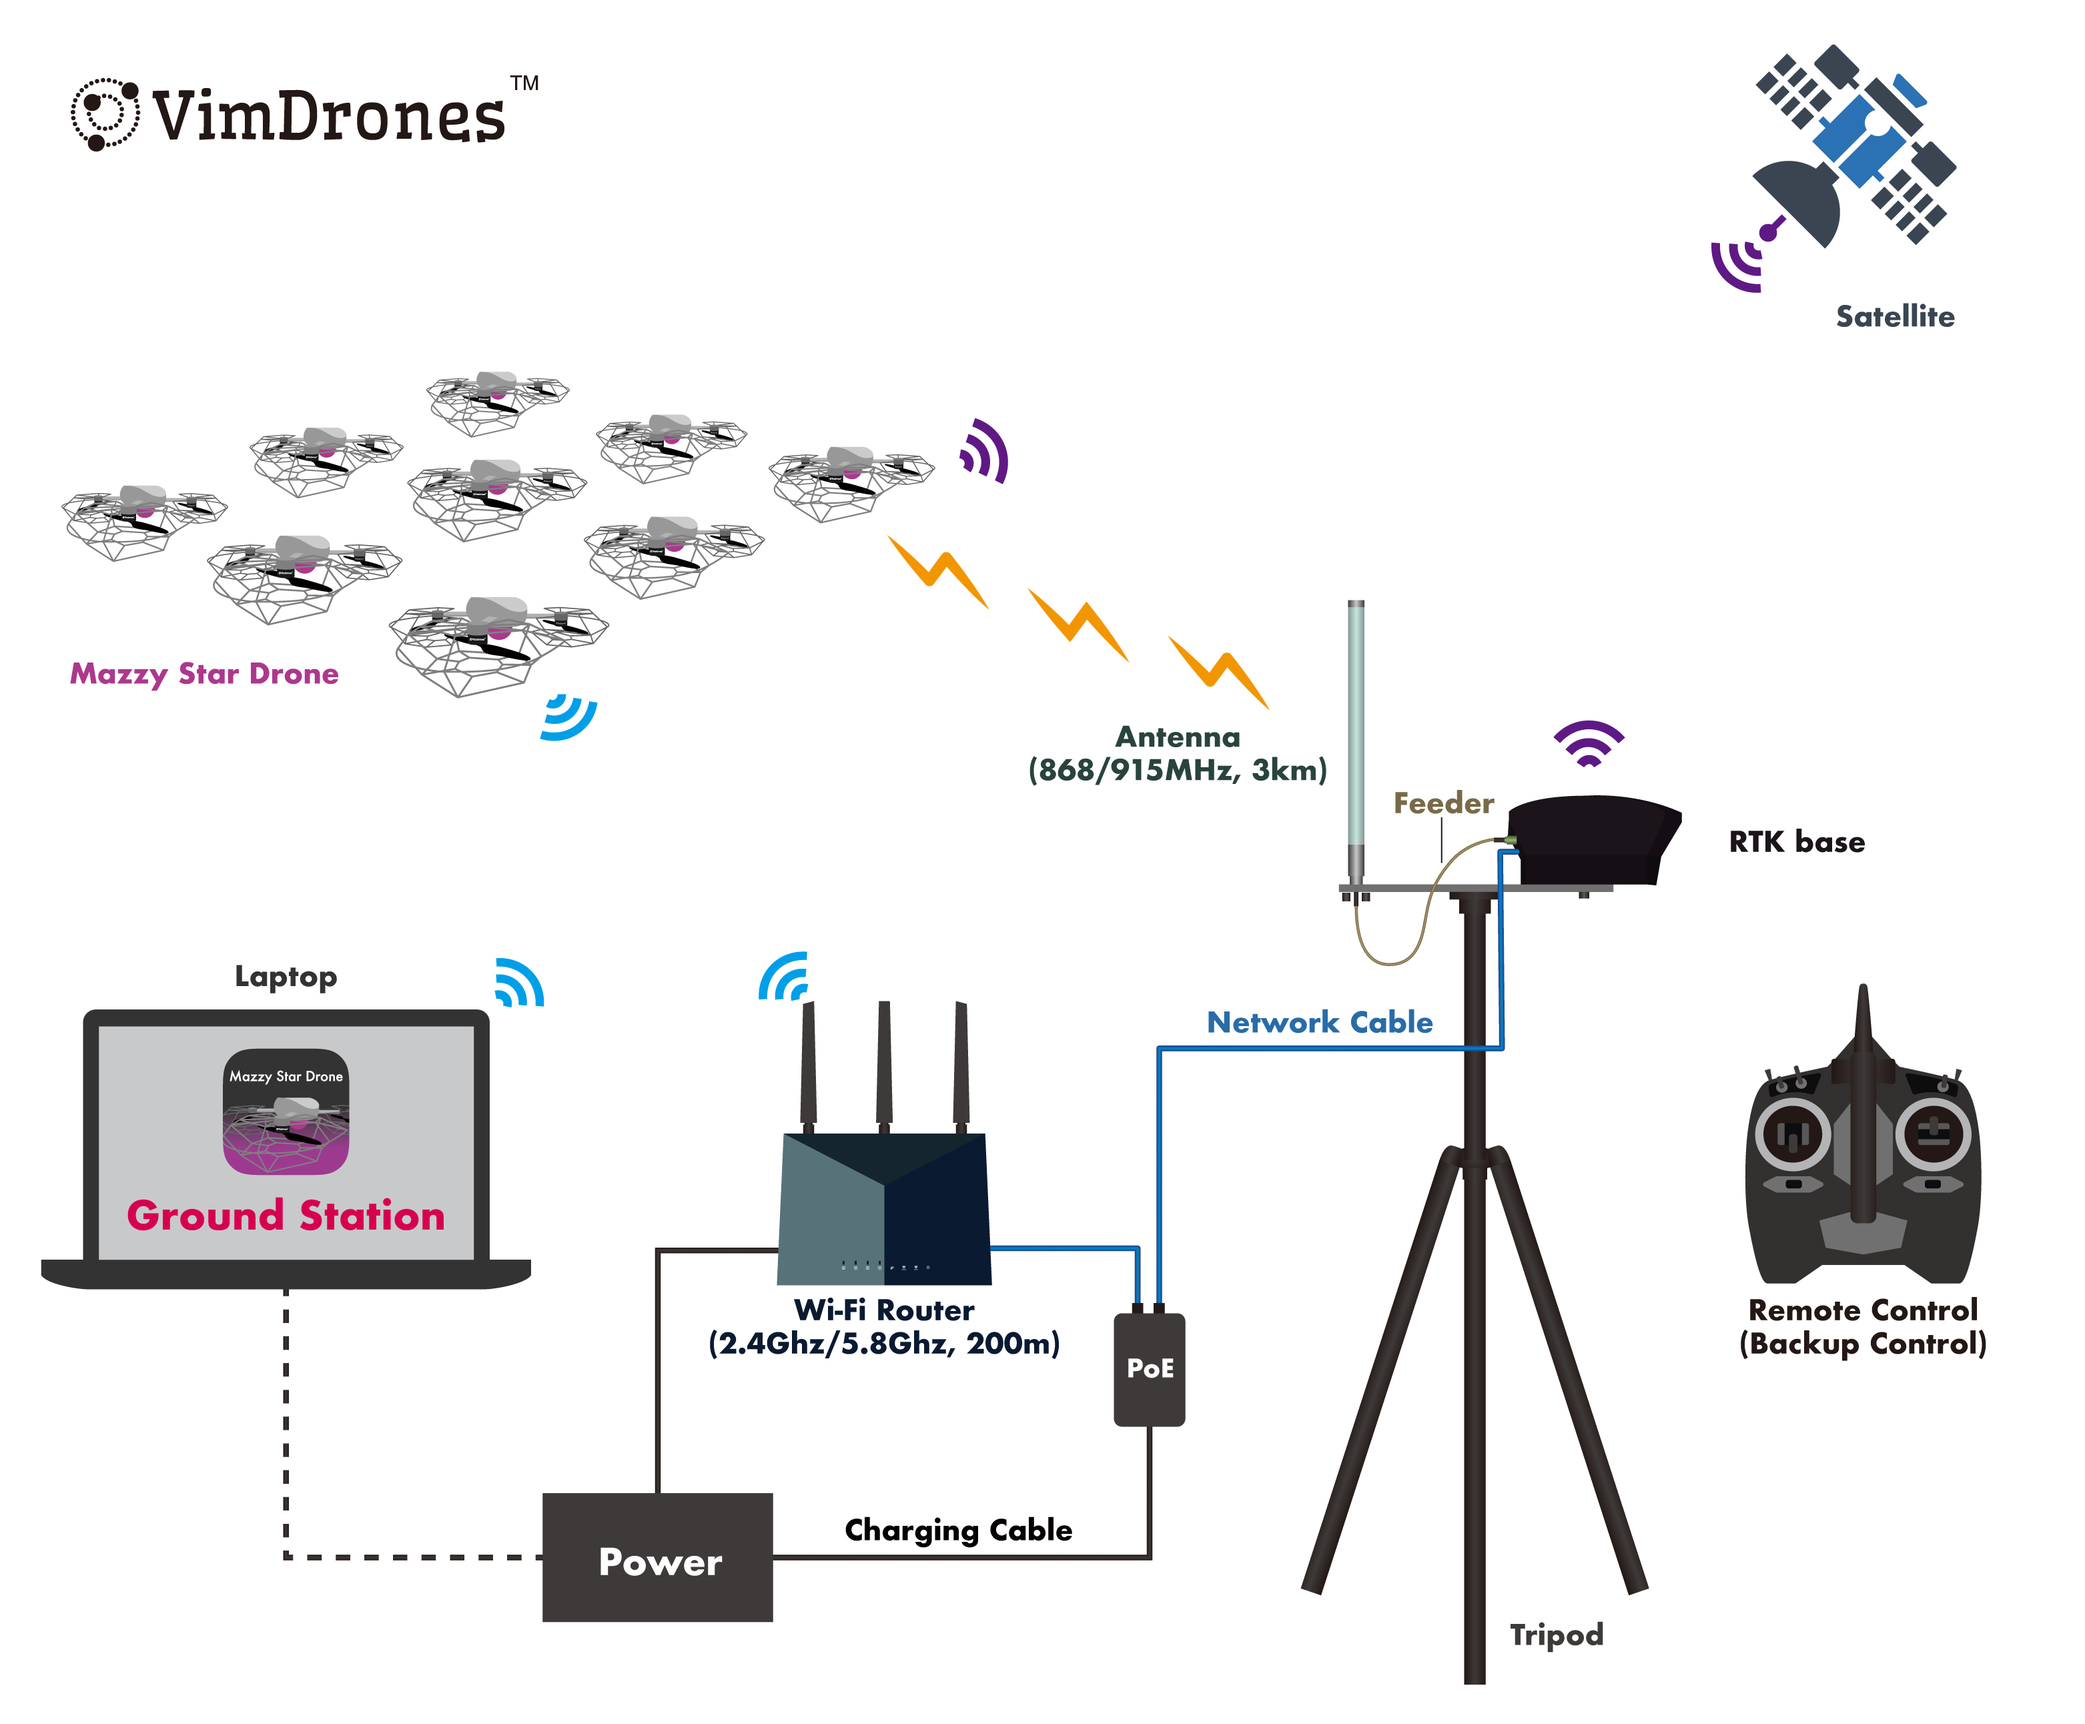
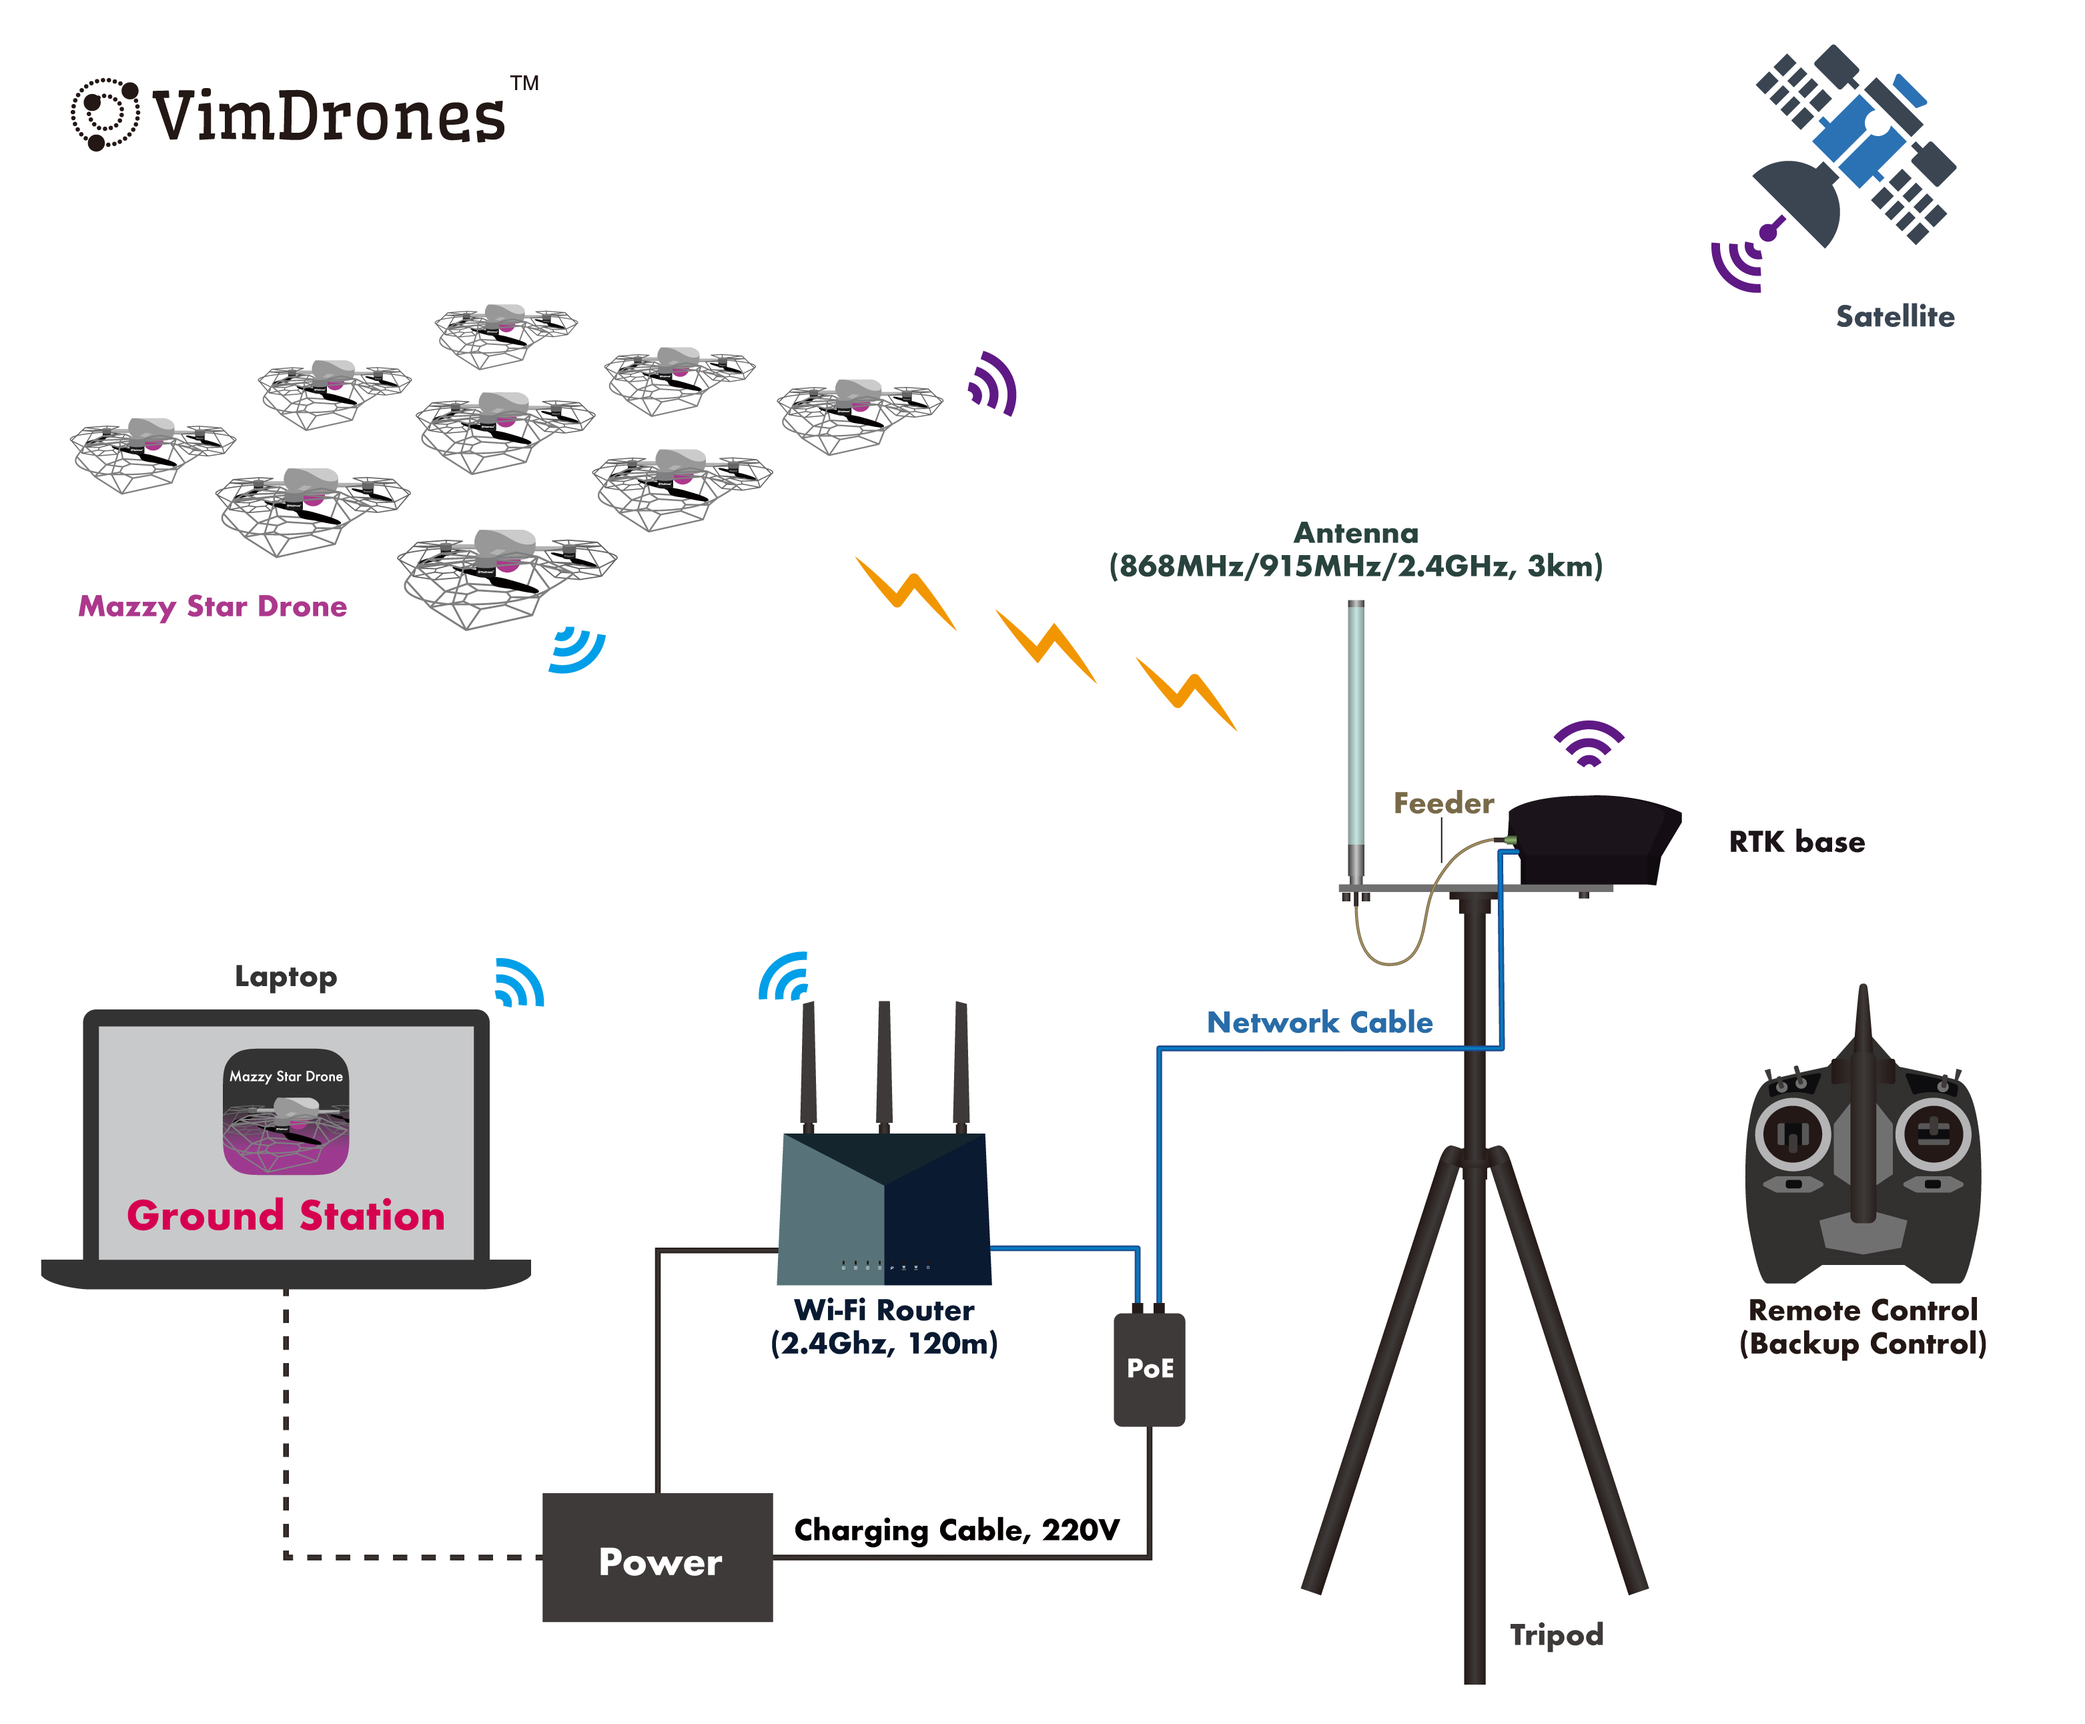
uptade

diff --git a/docs/setup.md b/docs/setup.md
@@ -3,6 +3,12 @@
 Mazzy Star Drone is designed for drone light show, featuring a full-colour RGB LED, intelligent flight mode and high precision positioning system. It equips with RTK GPS positioning system and multiple control channels communication system to ensure a stable and safe formation flight.
 Mazzy Star Drone has full size propeller guard and only 0.46kg armed weight. The maximum time hover time is up to 18 minutes. For the revolutionary design, Mazzy Star Drone significantly reduce safety risks compared to other drones on the market.
 
+[Drone Light Show Play list](https://youtube.com/playlist?list=PL0yTwW_bnpPIzh5wLbhtXvQPJ0GY6Isgl)
+
+<iframe width="560" height="315" src="https://www.youtube.com/embed/Lm-ZsTvbPis" frameborder="0" allow="accelerometer; autoplay; encrypted-media; gyroscope; picture-in-picture" allowfullscreen></iframe>
+
+</br>
+
 **Feature Highlights**
 
 * Compact, durable and light airframe, full-size propeller guard
@@ -10,7 +16,7 @@ Mazzy Star Drone has full size propeller guard and only 0.46kg armed weight. The
 * Full-colour RGB LED in high brightness, up to 640LM
 * Ground control software with Realtime 3D video preview
 * High precision RTK GPS, 2 cm precision with RTK fixed
-* Radio transmit, 915/868MHz, 3km Long Range Control
+* Radio transmit, 915MHz/868MHz/2.4GHz, 3km Long Range Control
 * WIFI transmit, 2.4G, 120m Long Range Control
 * Remote Control, 2.4G, 1km distance
 * Drone light show Ground Control Station Software “Vimdrones GCS” --with efficient drone dashboard, Realtime 2D&3D video preview, enables flexible configuration and development
@@ -42,8 +48,8 @@ table th:nth-of-type(2) {
 | Positioning System | RTK GPS (GPS+GLONASS+Beidou), 2 cm precision with RTK fixed |  
 | Battery | LiPo2S, 7.6V, 3000-mAh |  
 | Remote Control | 6-channel 2.4G radio remote controller (1km distance, optional) |  
-| Ground Antenna | 915/868 MHz 1000 mW, communication range 3km |
-| Drone Antenna | 915/868 MHz 20 mW, communication range, 2km <br>2.4G, communication range, 120m |
+| Ground Antenna | 915MHz/868MHz/2.4GHz 1000 mW, communication range 3km |
+| Drone Antenna | 915MHz/868MHz/2.4GHz 20 mW, communication range, 2km <br>2.4G, communication range, 120m |
 | LED | Integrated full-color RGB LED, 4W |
 | Charger | high-power 2S LiPo battery balance charger <br>10 charging holes <br>Input: AC100~240V 50/60Hz,3A(Max) <br> Output: DC8.7 V 1.5A 10 groups | 
 | Accessory | Foam box 1 (420x420x148mm) |  
@@ -55,18 +61,17 @@ table th:nth-of-type(2) {
 * Mazzy Star Drone Battery Charger
 * Vimdrones Drone Light Show System     
     * 1 Vimdrones Smart RTK Base Station
-    * 1 Wifi Router (One router per 100 drones)
+    * 1 Wifi Router, 220V
     * 1 Spektrum Transmitter 
     * 1 Tripod
-    * 1 915/868MHz Antenna
+    * 1 915MHz/868MHz/2.4GHz Antenna
     * 1 Feeder
-    * 1 PoE power supply
+    * 1 PoE power supply, 220V 
     * 3 Network Cables
 * Vimdrones Drone Light Show Designer Software
 * Vimdrones Ground Station Software
-![Ready To Fly List](/static/drone-light-show-equitment.jpg "Ready To Fly List")
 
-Download <a href="/static/vimdrones-drone-light-system.pdf" target="_blank" >Vimdornes Drone Light Show System.pdf</a>
+![Ready To Fly List](/static/drone-light-show-equitment.jpg "Ready To Fly List")
 
 **Other Additional Equipment**    
 
@@ -74,6 +79,10 @@ Download <a href="/static/vimdrones-drone-light-system.pdf" target="_blank" >Vim
 * Some of the Power Strips  
 * A set of foldable desk and chair (would be very good) 
 
+Download <a href="/static/vimdrones-drone-light-system.pdf" target="_blank" >Vimdornes Drone Light Show System.pdf</a>
+
+
+</br>
 
 ## Pre-Flight Preparation
 * Battery preparation
@@ -95,9 +104,12 @@ Download <a href="/static/vimdrones-drone-light-system.pdf" target="_blank" >Vim
     --Drone X/Y/Z axis Vibration value should be under 30  
     --Clip value should be under 50 | 200 |  
 
+<//br>
+
 * Flight Path preparation
     * Export *Vimdrones GCS*  flight **project**   
     Use Vimdrones Designer to design the Flight path, save the .blend file and export the *Vimdrones GCS* flight data
+
 
     * **Usage Warming:**   
 
@@ -116,12 +128,14 @@ Download <a href="/static/vimdrones-drone-light-system.pdf" target="_blank" >Vim
 
     When the drone takes off at an altitude of about 5 meters, it will start to execute the flight path and quickly fill in the altitude. It is recommended to take off as a whole, or take off in a row. Of course, it’s not a problem to turn into graphics after takeoff, as long as it doesn’t reach the restricted speed and distance
 
-------
+
+
 **Warming:**    
 If it is raining, snowing or the wind speed is above 7m/s（bad weather）, please stop the drone light show.
 
+</br>
 
-------
+
 ## Pre-Flight Setup Procedure
 
 **Drone Light Show System Communication:**  
@@ -236,6 +250,15 @@ In some emergency situations, we could use the remote control to control the dro
 * Do not arm the drone near people too close   
 * Do not arm the drone over people’ head  
 
+**Operation Video**
+
+* [YouTube](https://youtu.be/BS5PN4v3c20)
+* [bilibili](https://www.bilibili.com/video/BV185411P7wj?share_source=copy_web)
+
+<iframe width="560" height="315" src="https://www.youtube.com/embed/BS5PN4v3c20" frameborder="0" allow="accelerometer; autoplay; encrypted-media; gyroscope; picture-in-picture" allowfullscreen></iframe>
+
+</br>
+
 
 ## Battery
 
@@ -282,8 +305,9 @@ In some emergency situations, we could use the remote control to control the dro
 * Don't cover charger and battery during charging  
 * Don't charge battery unattended   
 
+</br>
 
----
+
 ## Get Log 
 
 Please download the [QGC](http://qgroundcontrol.com) software.  
@@ -292,4 +316,88 @@ Open QGC, use a micro USB cable to connect the computer to the USB port on the r
 Downloading and Analyzing Data Logs in [Mission Planner](https://ardupilot.org/copter/docs/common-downloading-and-analyzing-data-logs-in-mission-planner.html) 
 
 </br>
+
+
+
+## Repair
+
+**Tool preparation** 
+
+* A solder
+* A tweezers  
+* A screwdriver  
+* A Micro USB cable  
+* A Tin roll  
+* A drone battery  
+* A 3M Double Sided Foam
+* A laptop/computer with [QGC](http://qgroundcontrol.com) installed  
+
+
+**Repair the Body Frame**   
+
+1. Unlock the propellers with H1.5 screwdriver  
+
+2. Remove the propeller guard from 4 arms of the drone body
+
+3. Move the drone outside the propeller guard
+
+4. Remove 8 screws from 4 arms of the drone body with PH1 screwdriver.
+
+5. Remove the top cap of the drone. Pay attention there is an cable connect with GPS and the motherboard.
+
+6. Unsolder the motor cables connect with the ECS
+
+7. Remove 3 screws of the battery plug 
+
+8. Remove 2 screws of the battery case
+
+9. Remove 4 screws of the LED cover
+
+10. Remove 4 screws of motherboard
+
+11. Unlock the 2 connectors of motherboard
+
+12. Remove the motherboard, LED board, receiver
+
+13. Remove the motors
+
+14. Change the new frame
+
+15. Install the motors 
+
+16. Attach the receiver with the Foam
+
+17. Install the LED board and motherboard, connect the LED board & receiver to the motherboard
+
+18. Solder the motor cables connect with the ECS. Pay attention to the order od the cables.
+
+19. Install battery case and battery plug.
+
+20. Do the motor test
+
+21. Install the the top cap of the drone. Pay attention there is an cable connect with GPS and the motherboard
+
+22. Install 8 screws from 4 arms of the drone body with PH1 screwdriver
+
+23. Install the LED cover
+
+24. Install the propeller guard 
+ 
+25. Install the 4 propellers. Pay attention the direction of the propellers  
+
+26. Manually fly the drone for the test  
+
+
+**How to Manually Fly a Drone?**  
+
+* Setup the Vimdrones Drone Light Show System - [YouTube](https://youtu.be/iSv-nGm3Wn8)  
+* Manually Fly the Drone - [YouTube](https://youtu.be/BS5PN4v3c20)
+
+
+**Operation Video**
+
+* [YouTube](https://youtu.be/jG-_YRAtWek)
+* [bilibili](https://www.bilibili.com/video/BV18y4y117aA?share_source=copy_web)
+
+<iframe width="560" height="315" src="https://www.youtube.com/embed/jG-_YRAtWek" frameborder="0" allow="accelerometer; autoplay; encrypted-media; gyroscope; picture-in-picture" allowfullscreen></iframe>
 
